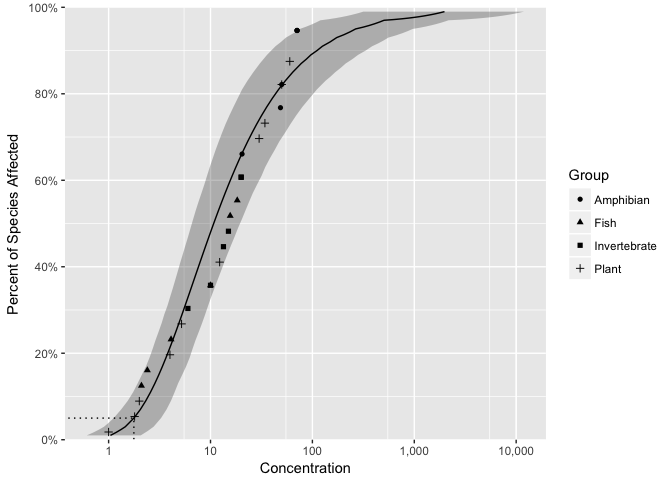
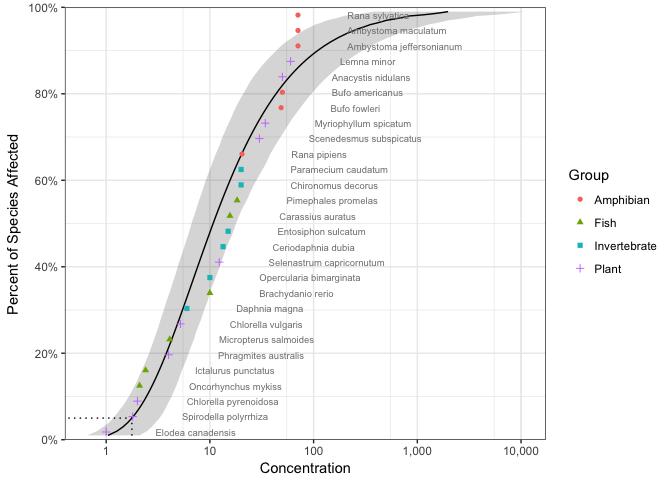
break ties first

diff --git a/README.md b/README.md
@@ -95,6 +95,7 @@ and plot using the `ggplot2` generic `autoplot`
 
 ``` r
 library(ggplot2)
+theme_set(theme_bw())
 autoplot(boron_dists)
 ```
 
@@ -108,10 +109,11 @@ boron_pred <- predict(boron_dists)
 ```
 
 and plotted together with the original data using `ssd_plot` to produce
-a plot for publication.
+a plot for
+publication.
 
 ``` r
-ssd_plot(boron_data, boron_pred, shape = "Group", label = "Species")
+ssd_plot(boron_data, boron_pred, shape = "Group", color = "Group", label = "Species")
 ```
 
 ![](tools/README-unnamed-chunk-8-1.png)<!-- -->
